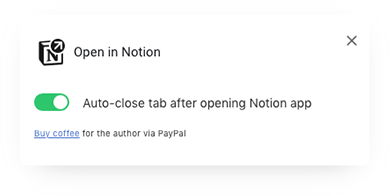
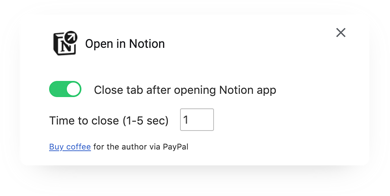
v0.1.3
Finally approved and published in Chrome Webstore

diff --git a/src/js/options.js b/src/js/options.js
@@ -1,31 +1,13 @@
-/*  
-    options.js - Open in Notion module
-
-    Open in Notion plugin for Chrome
-    Copyright (c) 2019
-    Sergey Osokin <https://github.com/creold/>
-
-    This is free software; you can redistribute it and/or modify it under
-    the terms of the GNU Lesser General Public License as published by
-    the Free Software Foundation; either version 3 of the License, or (at
-    your option) any later version.
-
-    This software is distributed in the hope that it will be useful, but
-    WITHOUT ANY WARRANTY; without even the implied warranty of
-    MERCHANTABILITY or FITNESS FOR A PARTICULAR PURPOSE. See the GNU
-    Lesser General Public License for more details.
-
-    See <http://www.gnu.org/licenses/>.
-*/
-
 var storage = chrome.storage.local;
 
-let toggle = document.querySelector('.toggle');
-let tabClose = document.querySelector('#tabClose');
+let toggle = document.querySelector(".toggle");
+let time = document.querySelector('input[name="closeTime"]');
+let tabClose = document.querySelector("#tabClose");
 
 // Read settings
-storage.get(["OINCloseTab"], function(obj) {
+storage.get(["OINCloseTab", "OINCloseTime"], function(obj) {
   tabClose.checked = obj.OINCloseTab;
+  time.value = obj.OINCloseTime;
 });
 
 // Inspect state
@@ -38,6 +20,15 @@ toggle.addEventListener("click", function(e) {
   tabClose.checked = !tabClose.checked;
   let settings = {
     OINCloseTab: tabClose.checked ? true : false
+  };
+  storage.set(settings);
+});
+
+time.addEventListener("change", function(e) {
+  if (time.value > 5) time.value = 5;
+  if (time.value < 1) time.value = 1;
+  let settings = {
+    OINCloseTime: time.value
   };
   storage.set(settings);
 });

diff --git a/src/js/background.js b/src/js/background.js
@@ -1,23 +1,3 @@
-/*  
-    background.js - Open in Notion module
-
-    Open in Notion plugin for Chrome
-    Copyright (c) 2019
-    Sergey Osokin <https://github.com/creold/>
-
-    This is free software; you can redistribute it and/or modify it under
-    the terms of the GNU Lesser General Public License as published by
-    the Free Software Foundation; either version 3 of the License, or (at
-    your option) any later version.
-
-    This software is distributed in the hope that it will be useful, but
-    WITHOUT ANY WARRANTY; without even the implied warranty of
-    MERCHANTABILITY or FITNESS FOR A PARTICULAR PURPOSE. See the GNU
-    Lesser General Public License for more details.
-
-    See <http://www.gnu.org/licenses/>.
-*/
-
 var storage = chrome.storage.local;
 var action = chrome.browserAction;
 var tabs = chrome.tabs;
@@ -25,13 +5,15 @@ var toggle = false;
 
 chrome.runtime.onInstalled.addListener(function() {
   storage.set({
-    OINCloseTab: false
+    OINStatus: true,
+    OINCloseTab: false,
+    OINCloseTime: 1
   });
 });
 
 // Get extension status
 storage.get("OINStatus", function(data) {
-  if (data.OINStatus || data.OINStatus == undefined) {
+  if (data.OINStatus) {
     toggle = true;
   }
   setAppearance(toggle);

diff --git a/src/js/content.js b/src/js/content.js
@@ -1,0 +1,34 @@
+var storage = chrome.storage.local;
+var loc = document.location;
+var tabUrl = loc.href;
+
+// Get extension options
+storage.get(["OINStatus", "OINCloseTab", "OINCloseTime"], function (data) {
+  let statusExt = data.OINStatus;
+  let linkTab = data.OINCloseTab;
+  let time = data.OINCloseTime;
+  
+  let expression = "(https:\/\/www\.notion\.so\/).+";
+  
+  var notionRegex = new RegExp(expression);
+  let match = notionRegex.exec(tabUrl);
+
+  // Get extension status
+    if (statusExt || statusExt == undefined) {
+      if (match != null) {
+        if (tabUrl.indexOf("/native/") == -1) {
+          loc.replace(tabUrl.replace(match[1], match[1] + "native/"));
+        }
+        if (linkTab) {
+          setTimeout(() => {
+            closeTab();
+          }, time * 1000);
+        }
+      }
+    }
+});
+
+// Send a message to the background script
+function closeTab() {
+  chrome.runtime.sendMessage("closeTab");
+}

diff --git a/src/options.html b/src/options.html
@@ -14,11 +14,16 @@
             <input type="checkbox" name="onoffswitch" class="onoffswitch-checkbox" id="tabClose">
             <label class="onoffswitch-label" for="tabClose"></label>
         </div>
-        <span>Auto-close tab after opening Notion app</span>
+        <span>Close tab after opening Notion app</span>
+    </div>
+
+    <div class="time">
+        <label for="closeTime">Time to close (1-5 sec)</label>
+        <input type="number" size="4" name="closeTime" min="1" max="5">
     </div>
     
     <footer>
-        <p><a class ='donate' href="https://www.paypal.me/osokin/3">Buy coffee</a> for the author via PayPal</p>
+        <p><a class ='donate' href="https://www.paypal.me/osokin/2">Buy coffee</a> for the author via PayPal</p>
     </footer>
 
     <script src="js/options.js"></script>

diff --git a/src/css/options.css b/src/css/options.css
@@ -1,5 +1,5 @@
 .toggle {
-  padding-bottom: 6px;
+  padding-bottom: 14px;
 }
 
 .toggle span {
@@ -60,6 +60,12 @@
 
 .onoffswitch-checkbox:checked + .onoffswitch-label:before {
   right: 0px; 
+}
+
+.time input, label {
+  padding-right: 10px;
+  font-size: 14px;
+  vertical-align: middle;
 }
 
 footer {

diff --git a/README.md b/README.md
@@ -50,6 +50,7 @@ If you find this extension helpful, you can buy me a coffee ☕ via [PayPal] 
 | --- | --- |
 | v.0.1 | Initial version. |
 | v.0.1.2 | Fix issues. Update options page |
+| v.0.1.3 | The code is adapted to the requirements of Google |
 
 ### Contribute
 
